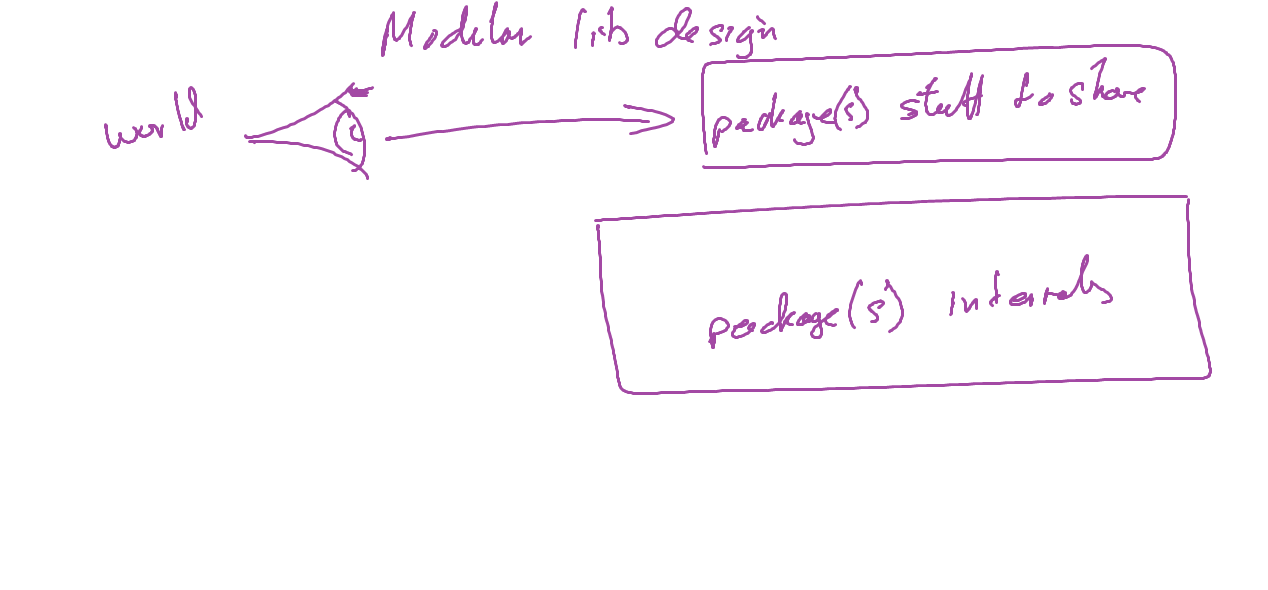
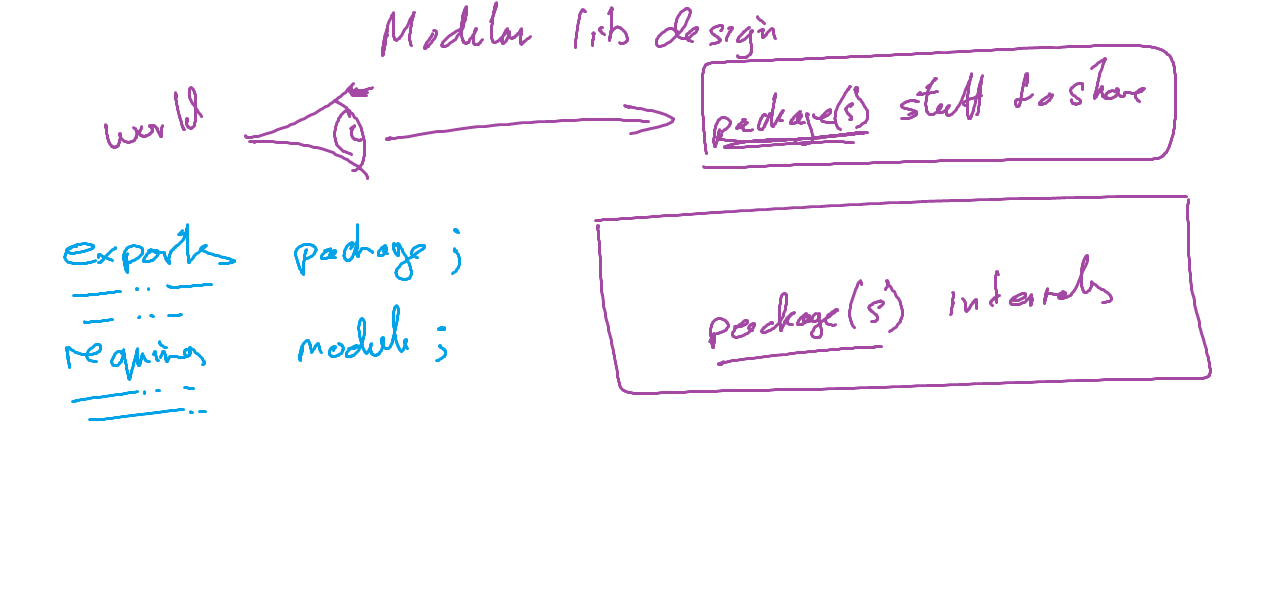
Day 3 Break 2

diff --git a/Client/src/theclient/Client.java b/Client/src/theclient/Client.java
@@ -1,8 +1,18 @@
 package theclient;
 
+import theservice.spi.MessageInterface;
+
+import java.lang.reflect.Field;
+
 public class Client {
-  public static void main(String[] args) {
-    System.out.println("Message is "
-        + theservice.Service.message);
+  public static void main(String[] args) throws Throwable {
+    MessageInterface serv = theservice.spi.Provider.getMessage();
+    System.out.println("Message is " + serv.get());
+    Class<?> cl = serv.getClass();
+    Field theMessage = cl.getDeclaredField("message");
+    theMessage.setAccessible(true); // disables access checks
+    theMessage.set(null, "Haha, I hacked your secret message");
+    System.out.println("Message is " + serv.get());
+//    throw new java.sql.SQLException();
   }
 }

diff --git a/Service/src/theservice/Service.java b/Service/src/theservice/Service.java
@@ -1,6 +1,13 @@
 package theservice;
 
-public class Service {
-  public static String message =
+import theservice.spi.MessageInterface;
+
+public class Service implements MessageInterface {
+  private static String message =
       "This is a message from Service";
+
+  @Override
+  public String get() {
+    return message;
+  }
 }

diff --git a/Service/src/theservice/spi/Provider.java b/Service/src/theservice/spi/Provider.java
@@ -1,0 +1,9 @@
+package theservice.spi;
+
+import theservice.Service;
+
+public class Provider {
+  public static MessageInterface getMessage() {
+    return new Service();
+  }
+}

diff --git a/Service/src/module-info.java b/Service/src/module-info.java
@@ -1,3 +1,4 @@
 module Service {
-
+  exports theservice.spi; // general access to public package stuff
+  opens theservice; // permits reflection mechanisms
 }

diff --git a/Client/src/module-info.java b/Client/src/module-info.java
@@ -1,2 +1,5 @@
 module Client {
+//  requires java.base; // IMPLICIT, but can be explicit if you want...
+  requires Service;
+  requires java.sql;
 }

diff --git a/Service/src/theservice/spi/MessageInterface.java b/Service/src/theservice/spi/MessageInterface.java
@@ -1,0 +1,5 @@
+package theservice.spi;
+
+public interface MessageInterface {
+  public String get();
+}
